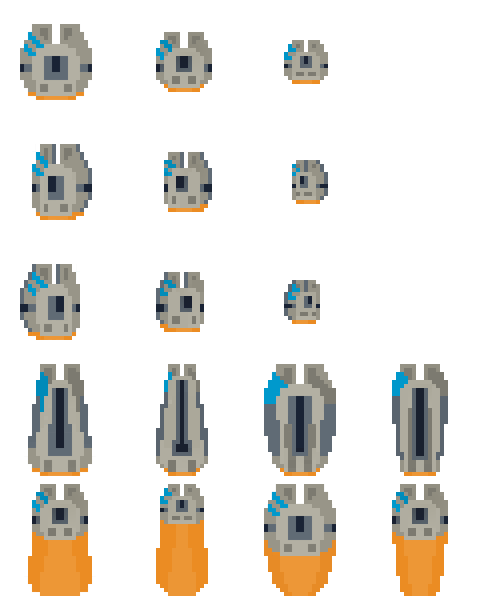
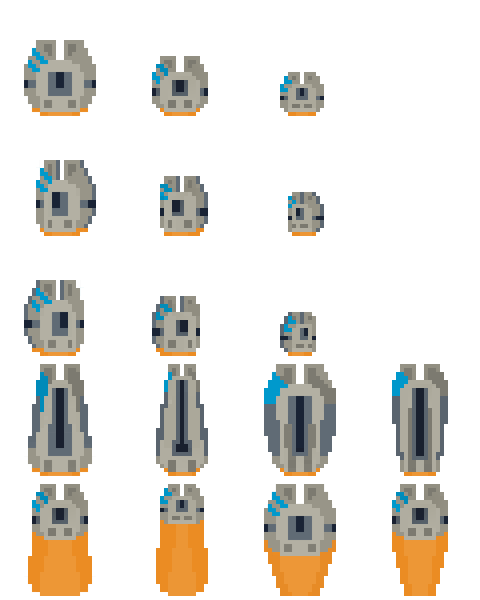
anim

diff --git a/Assets/ControllerClass.js b/Assets/ControllerClass.js
@@ -30,6 +30,7 @@ public class ControllerClass extends Moveables {
     private var stateHashtable : Hashtable = new Hashtable();
   	private var bounce : boolean;
     private var rolling : boolean;
+    private var transitioning : boolean;
 
   	var state : State;
     var depth : Depth;
@@ -40,15 +41,15 @@ public class ControllerClass extends Moveables {
     function Start(){
 
       var topHashtable : Hashtable = new Hashtable();
-      var tDvArray = [tDv1, tDv2];
+      var tDvArray = [tDv1, tDv2, mCr];
       topHashtable[State.Cruising] = tCr;
       topHashtable[State.BankingL] = tBl;
       topHashtable[State.BankingR] = tBr;
       topHashtable[State.Diving] = tDvArray;
 
       var middleHashtable : Hashtable = new Hashtable();
-      var mClArray = [mCl1, mCl2];
-      var mDvArray = [mDv1, mDv2];
+      var mClArray = [mCl1, mCl2, tCr];
+      var mDvArray = [mDv1, mDv2, bCr];
       middleHashtable[State.Cruising] = mCr;
       middleHashtable[State.BankingL] = mBl;
       middleHashtable[State.BankingR] = mBr;
@@ -56,7 +57,7 @@ public class ControllerClass extends Moveables {
       middleHashtable[State.Diving] = mDvArray;
 
       var bottomHashtable : Hashtable = new Hashtable();
-      var bClArray = [bCl1, bCl2];
+      var bClArray = [bCl1, bCl2, mCr];
       bottomHashtable[State.Cruising] = bCr;
       bottomHashtable[State.BankingL] = bBl;
       bottomHashtable[State.BankingR] = bBr;
@@ -66,7 +67,7 @@ public class ControllerClass extends Moveables {
       stateHashtable[Depth.Middle] = middleHashtable;
       stateHashtable[Depth.Bottom] = bottomHashtable;
 
-      depth = Depth.Middle;
+      depth = Depth.Bottom;
     }
 
 
@@ -78,11 +79,11 @@ public class ControllerClass extends Moveables {
 
     		if(!bounce){
 
-          if(!rolling && depth != depth.Top && Input.GetButtonDown("LeftBumper")){
+          if(!rolling && depth != depth.Top && Input.GetButtonDown("LeftBumper") && state != State.Climbing){
             state = State.Climbing;
             //BarrelRoll("LeftBumper");
           }
-          else if(!rolling && depth != depth.Bottom &&  Input.GetButtonDown("RightBumper")){
+          else if(!rolling && depth != depth.Bottom &&  Input.GetButtonDown("RightBumper") && state != State.Diving){
             state = State.Diving;
             //BarrelRoll("RightBumper");
           }
@@ -164,22 +165,54 @@ public class ControllerClass extends Moveables {
 
   	}
 
-    function TransitionAnim(array : Array){
+    function ChangeDepth(array : Array){
 
-        for(var i = 0; i<array.length; i++){
-          var currentSpr : Sprite = array[i];
-          var renderer : SpriteRenderer = gameObject.GetComponent(SpriteRenderer);
+        var cameraSize : float = Camera.main.orthographicSize;
+        var renderer : SpriteRenderer = gameObject.GetComponent(SpriteRenderer);
+        var currentSpr : Sprite;
+        var loop : int = array.length - 1;
+
+        for(var i = 0; i<loop; i++){
+          currentSpr = array[i];
           renderer.sprite = currentSpr;
-          yield WaitForSeconds(0.1);
+          yield WaitForSeconds(0.12);
         }
 
+        currentSpr = array[loop];
+        renderer.sprite = currentSpr;
+
+        var sizeMod : float;
+
         if(state == State.Climbing){
+          if(depth == Depth.Bottom){
+
+            sizeMod =  ( 52 / cameraSize ) / 100; // + 52px
+            transform.position.y += cameraSize * sizeMod;
+          }
+          else if(depth == Depth.Middle){
+
+            sizeMod =  ( 36 / cameraSize ) / 100; // + 36 px
+            transform.position.y += cameraSize * sizeMod;
+          }
           depth += 1;
         }
         else if(state == State.Diving){
+          if(depth == Depth.Top){
+
+            sizeMod =  ( 52 / cameraSize ) / 100; // + 52px
+            transform.position.y += cameraSize * sizeMod; // +
+          }
+          else if(depth == Depth.Middle){
+
+            sizeMod =  ( 68 / cameraSize ) / 100; // + 68px
+            transform.position.y += cameraSize * sizeMod;
+          }
           depth -= 1;
         }
+
+        transitioning = false;
         state = State.Cruising;
+
     }
 
   	function SpriteRend(){
@@ -187,32 +220,36 @@ public class ControllerClass extends Moveables {
         var currentSpr : Sprite;
         var currentHashtable : Hashtable = stateHashtable[depth];
 
-        if(state == State.Climbing || state == State.Diving){
+        if(!transitioning){
 
-          TransitionAnim(currentHashtable[state]);
+            if(state == State.Climbing || state == State.Diving){
 
-        }
+              transitioning = true;
+              ChangeDepth(currentHashtable[state]);
 
-        else{
-
-          currentSpr = currentHashtable[state];
-      		var renderer : SpriteRenderer = gameObject.GetComponent(SpriteRenderer);
-
-
-            if(velocity.x < 0.4 && velocity.x > -0.4){
-              state = State.Cruising;
             }
-            else if (bank >= 0.4){
-      				state = State.BankingR;
-      				}
-      			else if (bank <= -0.4){
-      				state = State.BankingL;
-      				}
-      			else{
-      				state = State.Cruising;
-      			}
-      		renderer.sprite = currentSpr;
 
+            else{
+
+              currentSpr = currentHashtable[state];
+          		var renderer : SpriteRenderer = gameObject.GetComponent(SpriteRenderer);
+
+
+                if(velocity.x < 0.4 && velocity.x > -0.4){
+                  state = State.Cruising;
+                }
+                else if (bank >= 0.4){
+          				state = State.BankingR;
+          				}
+          			else if (bank <= -0.4){
+          				state = State.BankingL;
+          				}
+          			else{
+          				state = State.Cruising;
+          			}
+          		renderer.sprite = currentSpr;
+
+            }
         }
   	}
 
